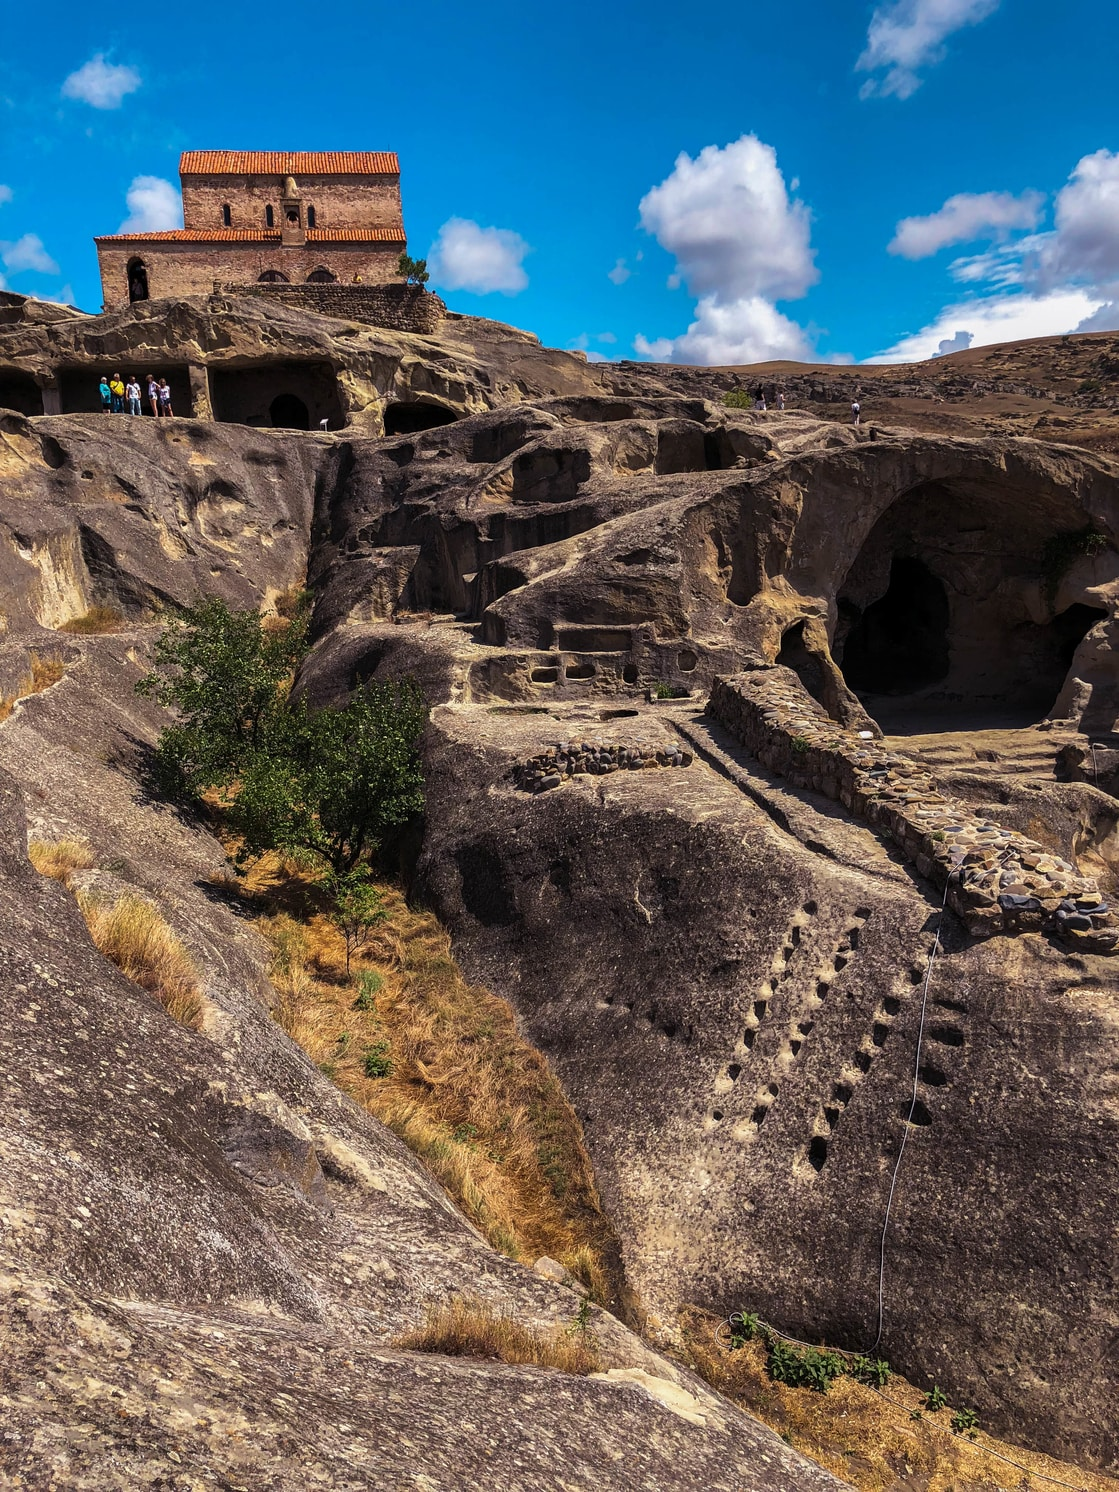
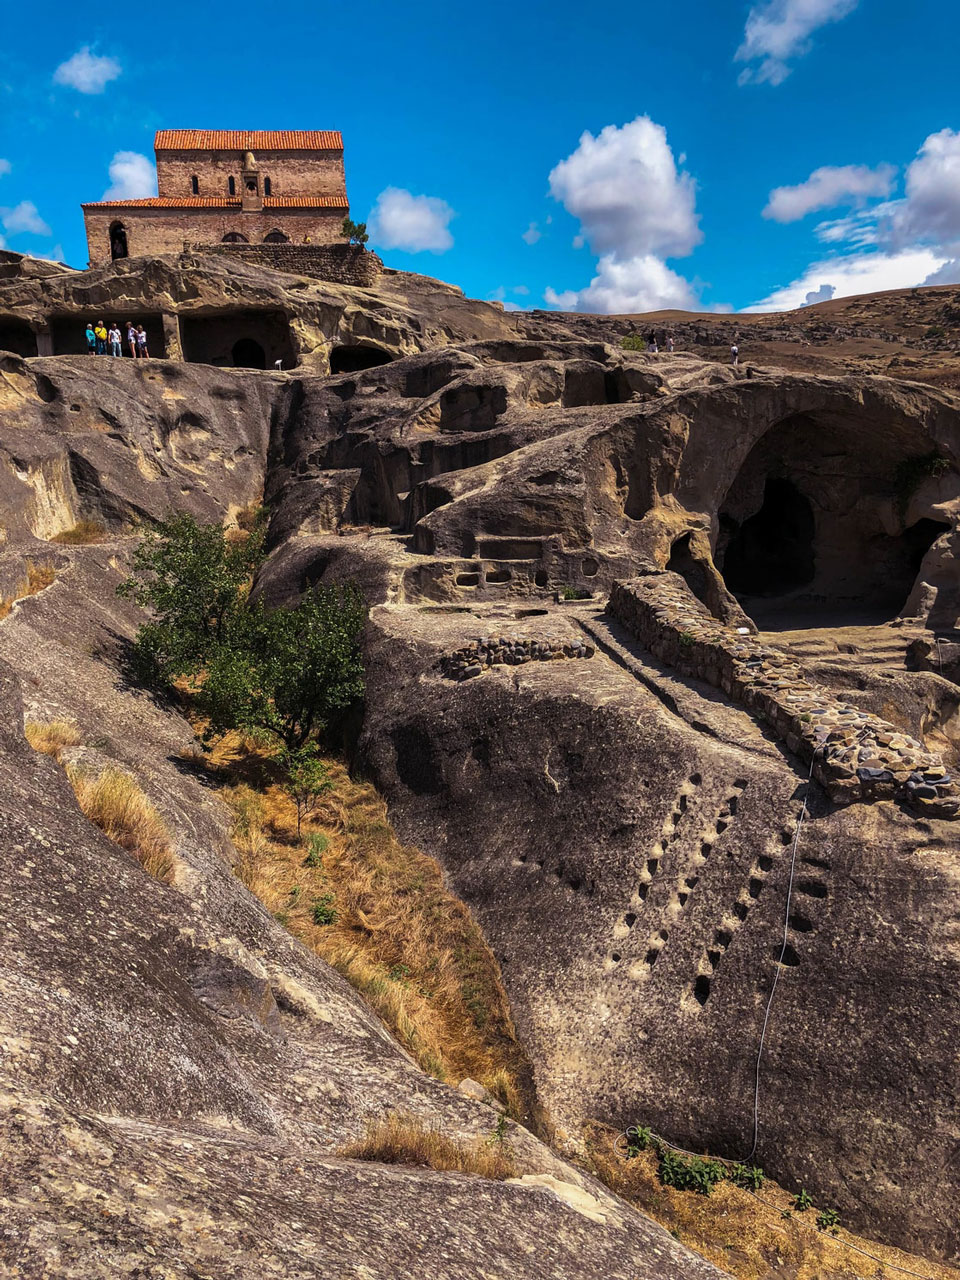
Optimized photos

diff --git a/index.html b/index.html
@@ -32,7 +32,7 @@
     <!-- Navigation -->
     <nav class="navbar navbar-expand-lg navbar-light fixed-top" id="mainNav">
         <div class="container">
-            <a class="navbar-brand js-scroll-trigger" href="#page-top"><img src="img/menulogo-travelblue.png"></a>
+            <a class="navbar-brand js-scroll-trigger" href="#page-top"><img src="img/menulogo-travelblue.png" alt="menulogo"></a>
             <button class="navbar-toggler navbar-toggler-right" type="button" data-toggle="collapse" data-target="#navbarResponsive" aria-controls="navbarResponsive" aria-expanded="false" aria-label="Toggle navigation">
           Menu
           <i class="fas fa-bars"></i>
@@ -58,8 +58,6 @@
         <div id="particles-js"></div>
         <div class="container d-flex h-100 align-items-center">
             <div class="mx-auto text-center">
-                <h1 class="mx-auto my-0 text-uppercase"></h1>
-                <h2 class="text-white-50 mx-auto mt-2 mb-5"></h2>
                 <a href="#accomplished" class="btn btn-primary js-scroll-trigger">Step by Step</a>
             </div>
         </div>
